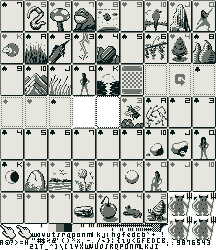
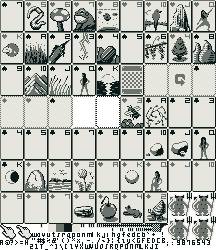
Hide the grid behind vacancies

diff --git a/src/level/Level.ts b/src/level/Level.ts
@@ -15,6 +15,9 @@ const boardX = 2 * mod;
 const boardY = 16;
 const hiddenY = -1024;
 
+// to-do: can this be a system or systems? It seems like it's a "board" system
+// but has some overlap with CardSystem which calls these functions.
+
 export function setSpritePositionsForLayout(
   ecs: ECS<SublimeComponentSet>,
   filmByID: FilmByID<SublimeFilmID>,
@@ -61,14 +64,11 @@ export function setSpritePositionsForLayout(
     } else {
       animID = 'CardDown';
     }
-    // could have card-1-2-3 for horizontal ordering to work correctly, could have CardBack for everything below topmost hidden card. tricks i can play here to make layering appear to work correctly for stacked cards with same y. could also do order breaking for horizontal based on left-to-right so that it's consistent.
+    // Hide waste under the draw reserve. I can't draw them in the correct
+    // order since they have identical XYs.
     components!.sprite.layer =
       SublimeLayer[animID == 'CardDown' ? 'CardDown' : 'CardUp'];
-    components!.sprite.animate(
-      time,
-      // hide cards under draw reserve. i can't draw them in the correct order
-      filmByID[animID],
-    );
+    components!.sprite.animate(time, filmByID[animID]);
   }
 }
 
@@ -79,7 +79,8 @@ export function getStockXY(
   return I16XY(
     boardX + 160,
     // All cards in the stock are at the same point and on the same layer. Only
-    // the top card should be pickable so move the rest off-cam.
+    // the top card should be pickable though so hide the rest off-cam since
+    // they're not drawn in the correct order.
     boardY + (solitaire.stock.length - 1 == indexY ? 0 : hiddenY),
   );
 }
